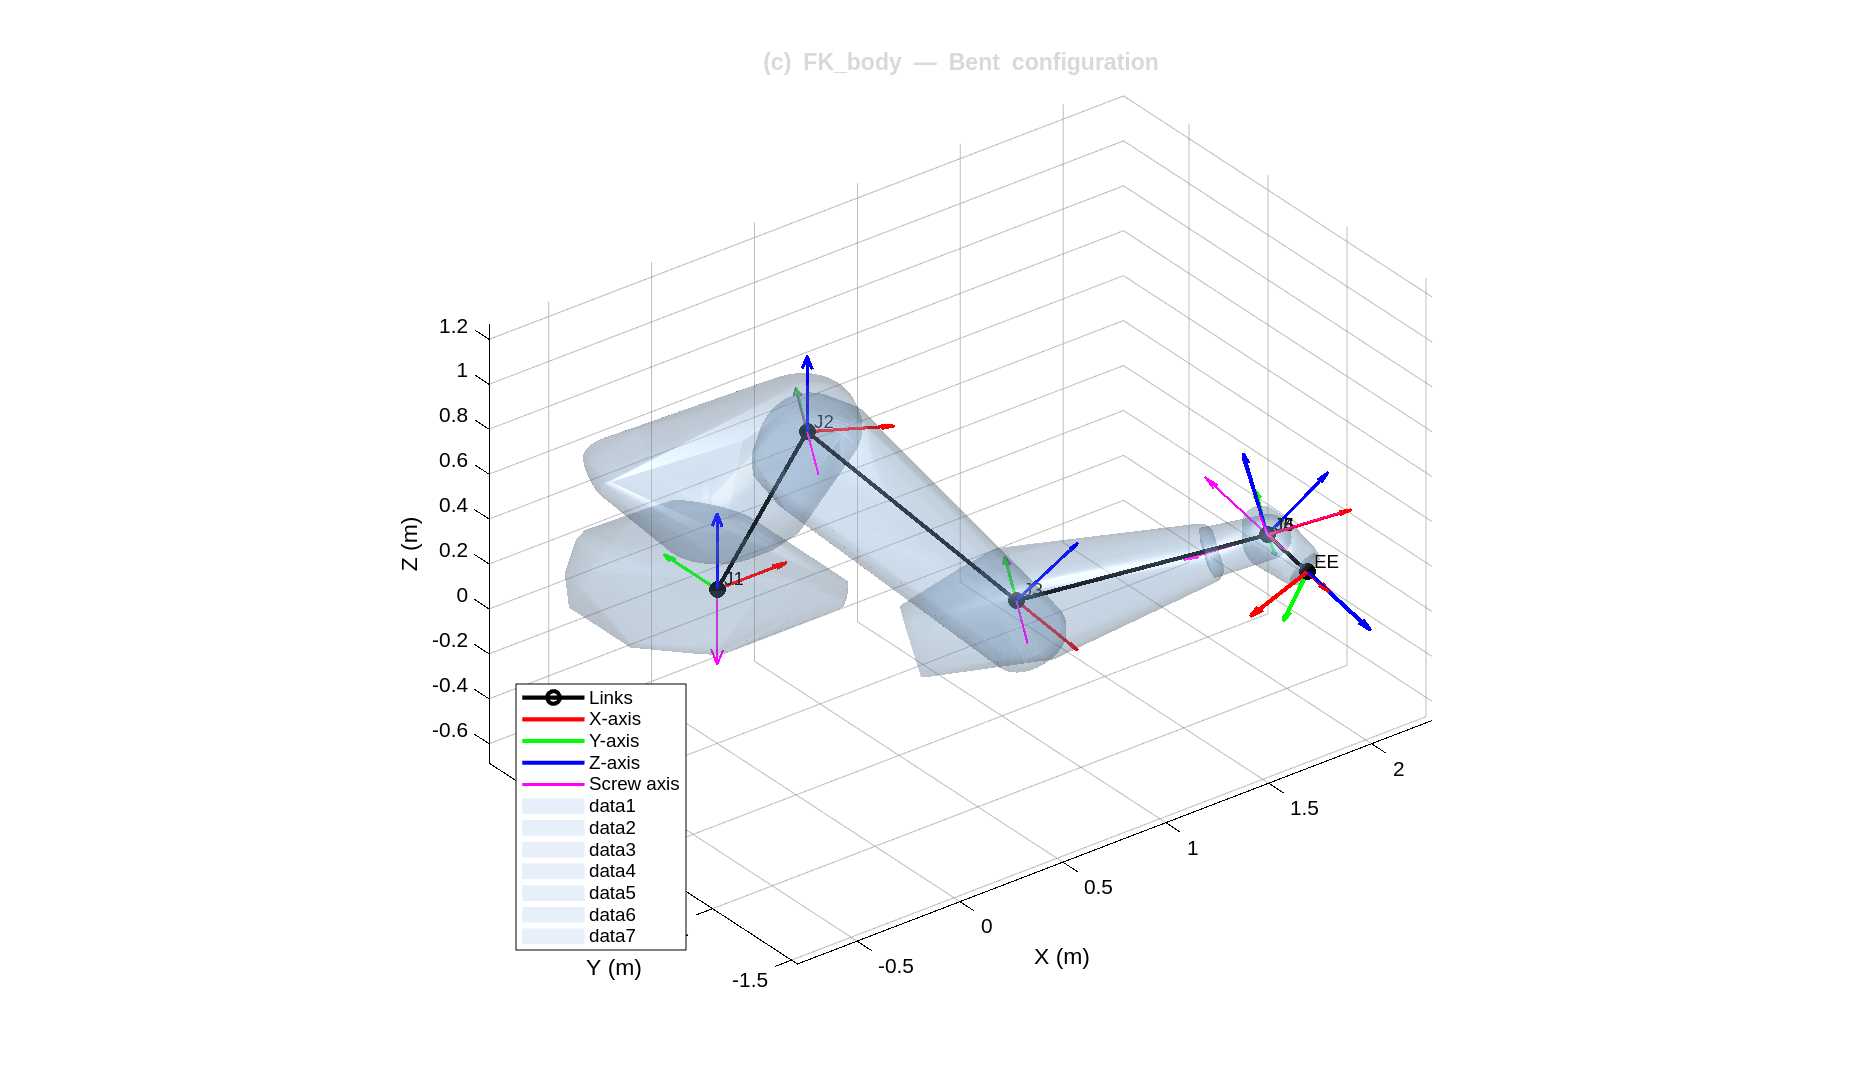
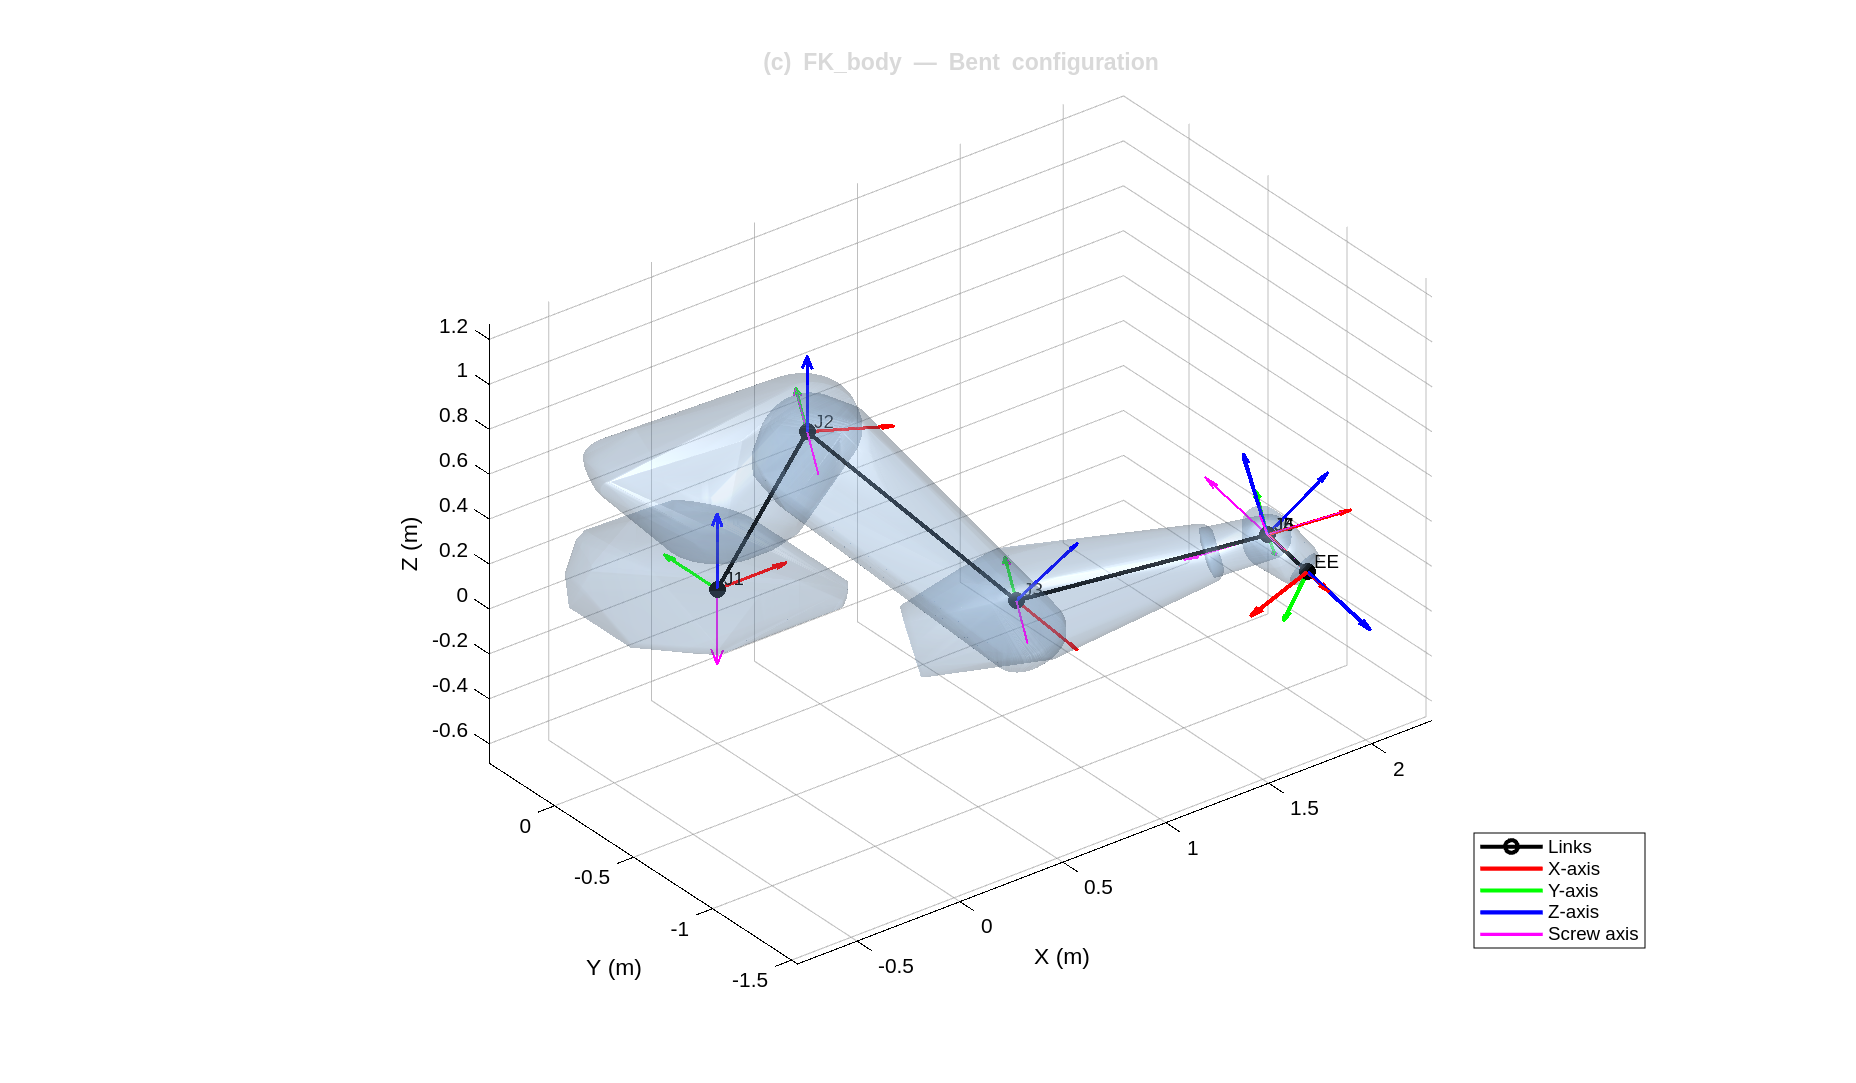
Checking in most up to date versions

Changed region(s): [[0.2812, 0.6399, 0.375, 0.8837], [0.7812, 0.7618, 0.875, 0.8837]]

diff --git a/test_THA2.m b/test_THA2.m
@@ -36,30 +36,30 @@ end
 fprintf('\n========== PART (a)/(b): FK_space ==========\n');
 robot = KR120_params();
 
-% --- Test a1: at home (theta=0), FK must return M exactly
+% --- Test b1: at home (theta=0), FK must return M exactly
 T0   = FK_space(robot.M, robot.Slist, zeros(6,1));
 err  = norm(T0 - robot.M, 'fro');
-results = record(results, 'a1: FK_space(0) == M', err < 1e-10, ...
+results = record(results, 'b1: FK_space(0) == M', err < 1e-10, ...
                  sprintf('||T-M||_F = %.2e', err));
 
-% --- Test a2: rotation matrix at home must equal M's rotation (Ry+90 for KR120)
+% --- Test b2: rotation matrix at home must equal M's rotation (Ry+90 for KR120)
 %   KR120 tool0 fixed joint has rpy="0 pi/2 0", so M carries a Ry(+90) rotation.
 %   FK_space(theta=0) = M, so R(0) = M(1:3,1:3), not I.
 R_err = norm(T0(1:3,1:3) - robot.M(1:3,1:3), 'fro');
-results = record(results, 'a2: R(0) == M_rot', R_err < 1e-10, ...
+results = record(results, 'b2: R(0) == M_rot', R_err < 1e-10, ...
                  sprintf('||R-M_rot||_F = %.2e', R_err));
 
-% --- Test a3: pure J1 rotation pi/2 (Z-axis) preserves xy-radius and z
+% --- Test b3: pure J1 rotation pi/2 (Z-axis) preserves xy-radius and z
 T1      = FK_space(robot.M, robot.Slist, [pi/2;0;0;0;0;0]);
 p1      = T1(1:3,4);
 r_delta = abs(norm(p1(1:2)) - norm(robot.M(1:2,4)));
 z_delta = abs(p1(3) - robot.M(3,4));
-results = record(results, 'a3: J1 rotate pi/2 — xy-radius preserved', ...
+results = record(results, 'b3: J1 rotate pi/2 — xy-radius preserved', ...
                  r_delta < 1e-6, sprintf('delta = %.2e m', r_delta));
-results = record(results, 'a4: J1 rotate pi/2 — Z height preserved', ...
+results = record(results, 'b4: J1 rotate pi/2 — Z height preserved', ...
                  z_delta < 1e-6, sprintf('delta = %.2e m', z_delta));
 
-% --- Test a5: pure J2 rotation pi/2 — arm sweeps downward
+% --- Test b5: pure J2 rotation pi/2 — arm sweeps downward
 %   KR120: J2 at [a1, 0, d1].  EE-to-J2 vector at home = [a2+a3+d6, 0, dz]
 %   (dz = -0.041 m is the z-drop from link_3 to the wrist centre, joint_a4).
 %   Rotating J2 by +pi/2 about +Y applies Ry(+pi/2) to that vector:
@@ -70,7 +70,7 @@ p2       = T2(1:3,4);
 arm_x    = robot.a(2) + robot.a(3) + robot.d(6);   % x-reach from J2 to EE at home
 p2_exp   = [robot.a(1) + robot.dz; 0; robot.d(1) - arm_x];
 pos_err2 = norm(p2 - p2_exp);
-results  = record(results, 'a5: J2 rotate pi/2 — EE pos correct', ...
+results  = record(results, 'b5: J2 rotate pi/2 — EE pos correct', ...
                   pos_err2 < 1e-6, ...
                   sprintf('[%.4f,%.4f,%.4f] expect [%.4f,%.4f,%.4f]  err=%.2e', ...
                           p2(1),p2(2),p2(3), p2_exp(1),p2_exp(2),p2_exp(3), pos_err2));

diff --git a/render_all_figs.m b/render_all_figs.m
@@ -118,7 +118,7 @@ function add_meshes(ax, meshes, mesh_T0, thetalist, Slist, sc, color, alpha)
             V = bsxfun(@plus, R * (meshes{mi}.Points * sc)', t)';
             patch(ax, 'Faces', meshes{mi}.ConnectivityList, 'Vertices', V, ...
                   'FaceColor', color, 'FaceAlpha', alpha, 'EdgeColor', 'none', ...
-                  'FaceLighting', 'gouraud');
+                  'FaceLighting', 'gouraud', 'HandleVisibility', 'off');
         end
     end
     camlight(ax, 'headlight');
